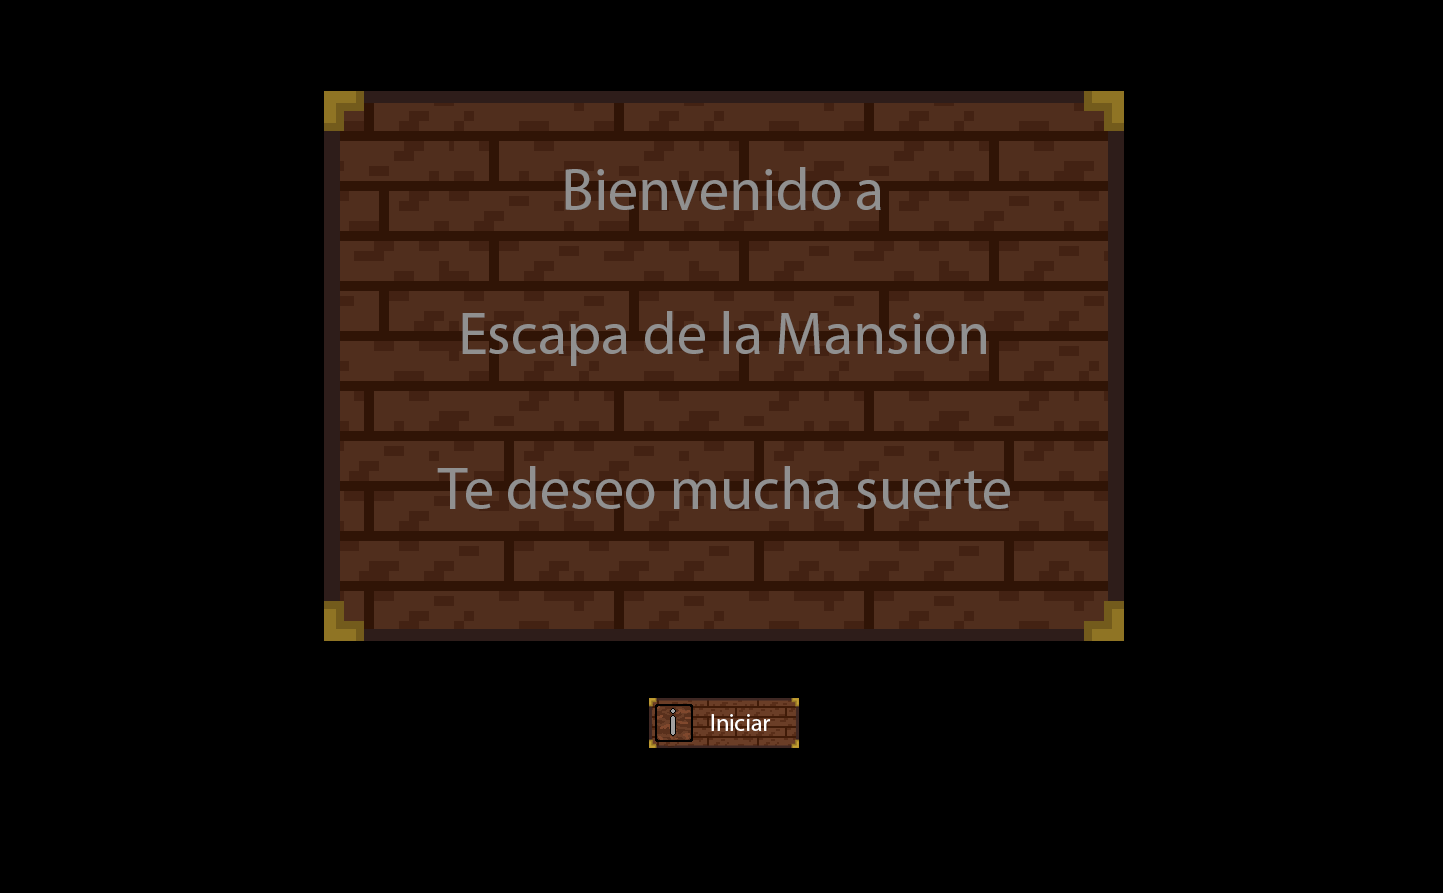
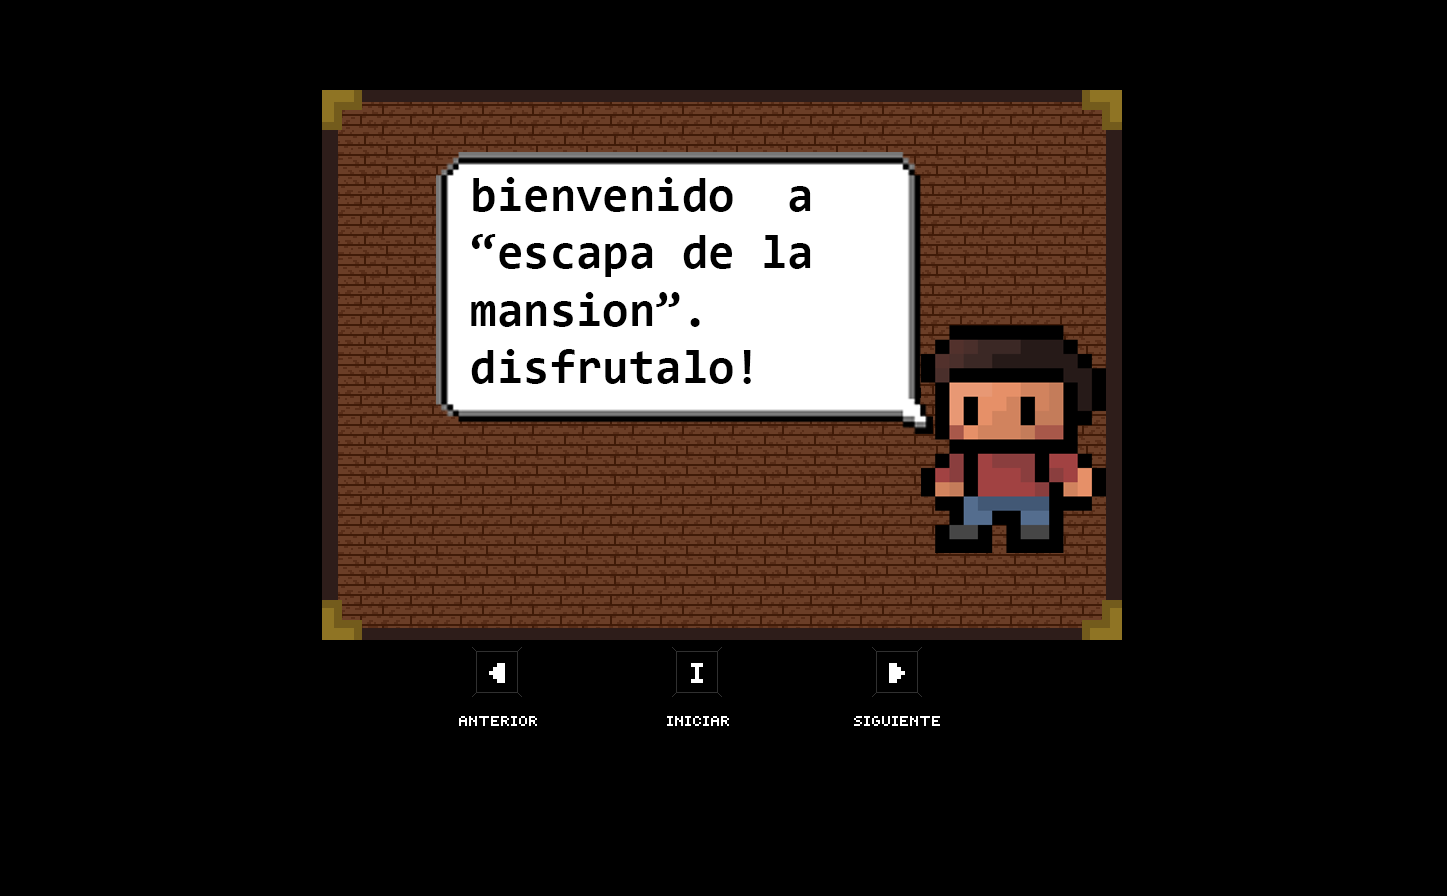
nueva animacion y varios cambios

Changed region(s): [[0.2183, 0.0907, 0.7796, 0.8466], [0.5925, 0.7861, 0.6549, 0.8163], [0.3119, 0.7861, 0.3742, 0.8163]]

diff --git a/README.md b/README.md
@@ -11,12 +11,20 @@
 ## Capturas
 
 ![Captura 1](./assets/Screenshots/juegoInicio.png)
-![Captura 2](./assets/Screenshots/juegoPasillo.png)
-![Captura 3](./assets/Screenshots/juegoNivel.png)
-![Captura 4](./assets/Screenshots/juegoMuerte.png)
-![Captura 4](./assets/Screenshots/cartelJuegoCompletado.png)
+![Captura 2](./assets/Screenshots/juegoControles.png)
+![Captura 3](./assets/Screenshots/juegoPasillo.png)
+![Captura 4](./assets/Screenshots/juegoMinijuego1.png)
+![Captura 5](./assets/Screenshots/juegoMuerte.png)
+![Captura 6](./assets/Screenshots/juegoMinijuego2.png)
+![Captura 7](./assets/Screenshots/juegoPortalFinal.png)
 
 ## Reglas de Juego / Instrucciones
+El jugador aparece en el pasillo de una mansión, no hay una salida a la vista, pero en el mismo hay cuatro misteriosas puertas que llevan a retos que se deben superar. 
+Para poder escapar se debe ir completando cada minijuego y así desbloquear la salida de la mansión.
+¡Mucho cuidado! El jugador solo cuenta con 3 vidas, cada vez que falla mientras intenta hacer un minijuego, este pierde una vida, al llegar a cero vidas el jugador muere y es GAME OVER.
+Pero no todo está perdido, cada vez que se completa exitosamente un minijuego, el jugador gana una vida (como máximo total hasta tres vidas). 
+Así que por favor ármate de valor y ayuda a nuestro amigo Alex a escapar de la mansión.
+
 
 Movimiento:
 - w - Adelante
